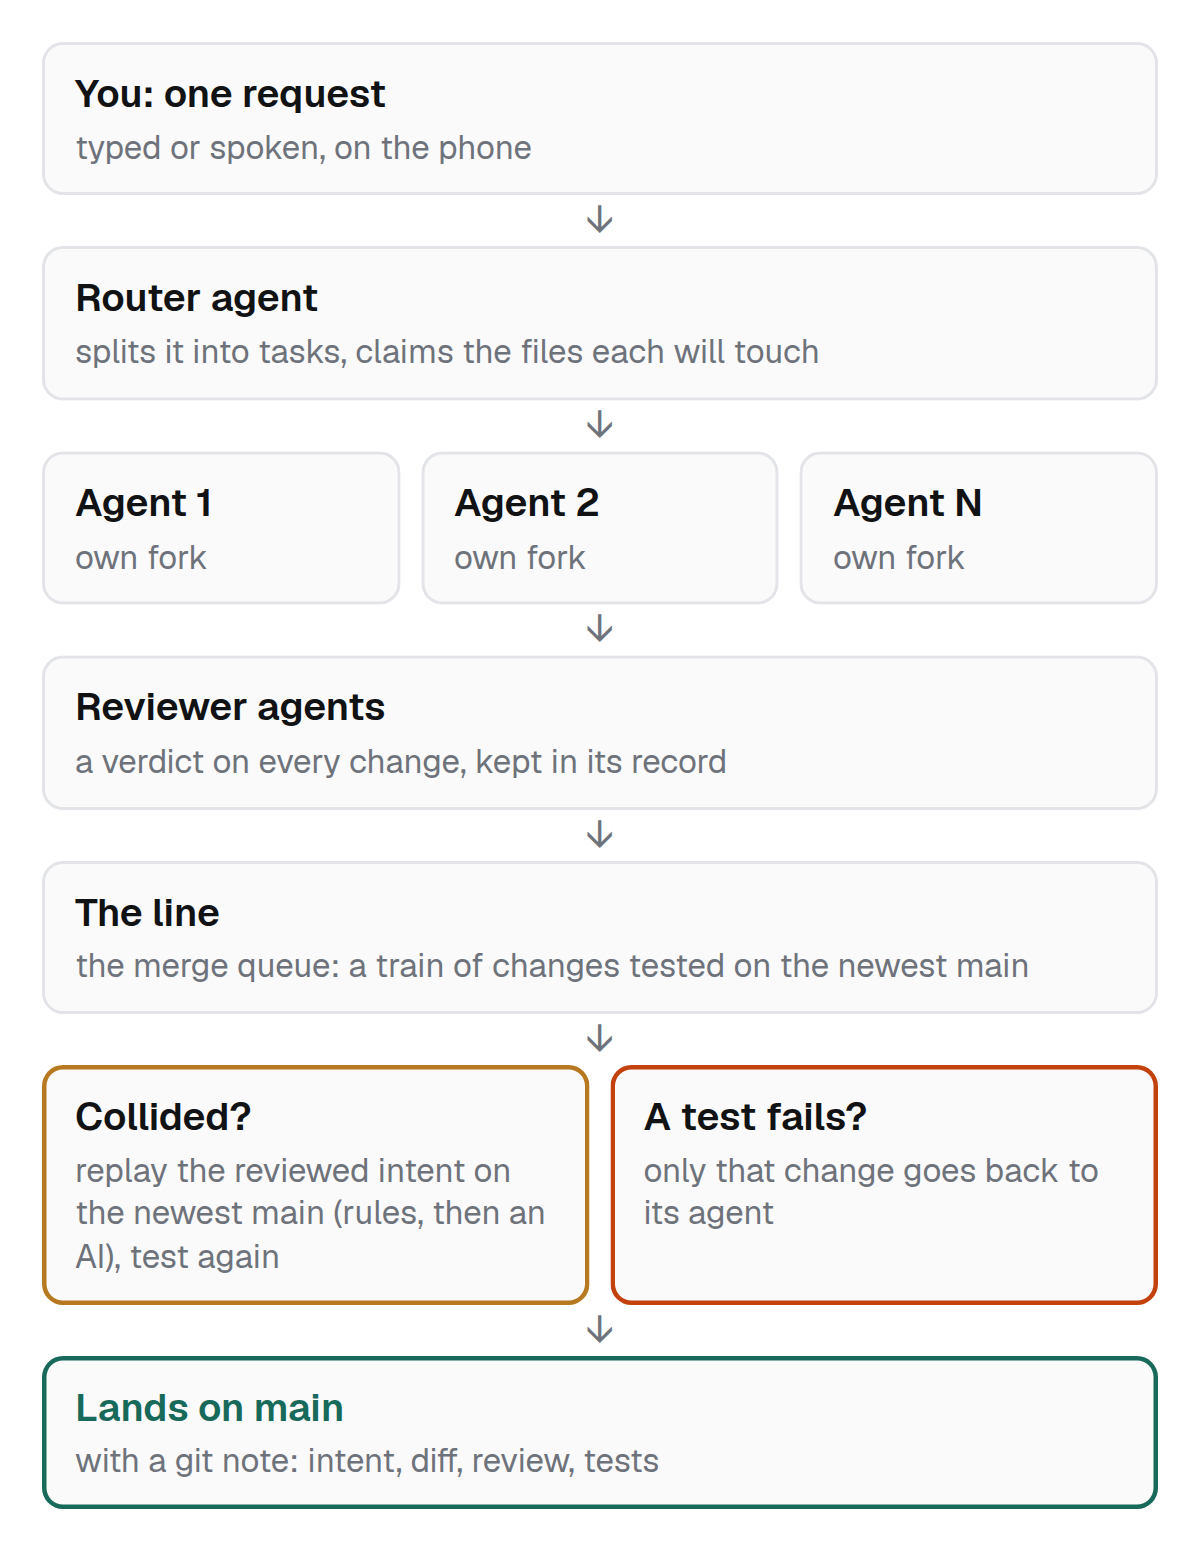
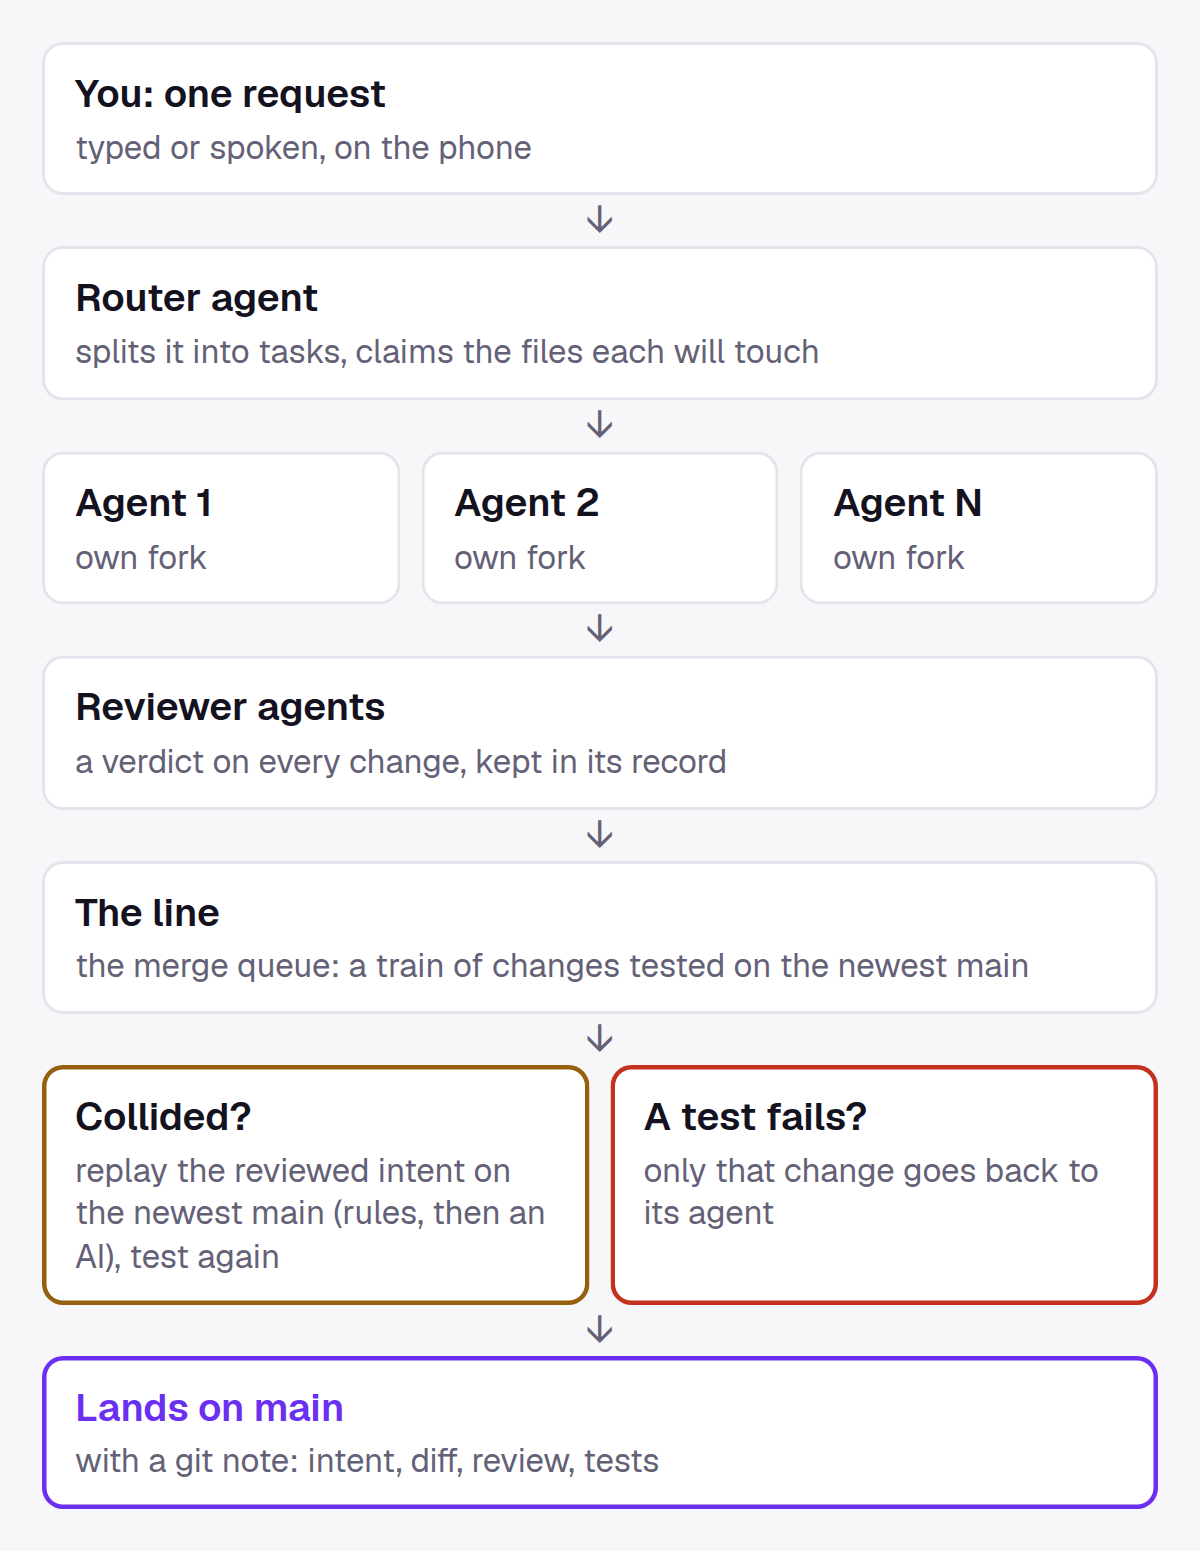
README flow diagram in the violet tokens (DESIGN.md)

diff --git a/video/contest/readme-flow.html b/video/contest/readme-flow.html
@@ -3,9 +3,9 @@
      node video/contest/shoot-readme-flow.mjs (a PNG reads the same in every GitHub view). -->
 <link href="https://fonts.googleapis.com/css2?family=Geist:wght@400;500;600&display=swap" rel="stylesheet">
 <style>
-:root { --fg:#111214; --dim:#6e737b; --acc:#17695a; --busy:#b7791f; --bad:#c2410c; --card:#fafafa; --line:#e2e4e8; }
+:root { --fg:#14121f; --dim:#646177; --acc:#6a2ff0; --busy:#94600f; --bad:#c2321f; --card:#ffffff; --line:#e4e4ec; --bg:#f7f7fa; }
 * { box-sizing:border-box; margin:0 }
-body { width:800px; background:#fff; font:400 26px/1.3 Geist, sans-serif; color:var(--fg); padding:28px; }
+body { width:800px; background:var(--bg); font:400 26px/1.3 Geist, sans-serif; color:var(--fg); padding:28px; }
 .n { border-radius:14px; background:var(--card); box-shadow:inset 0 0 0 2px var(--line); padding:18px 22px; }
 .n b { font-weight:600 } .n span { color:var(--dim); font-size:22px; display:block; margin-top:4px }
 .row { display:flex; gap:14px } .row .n { flex:1 }
